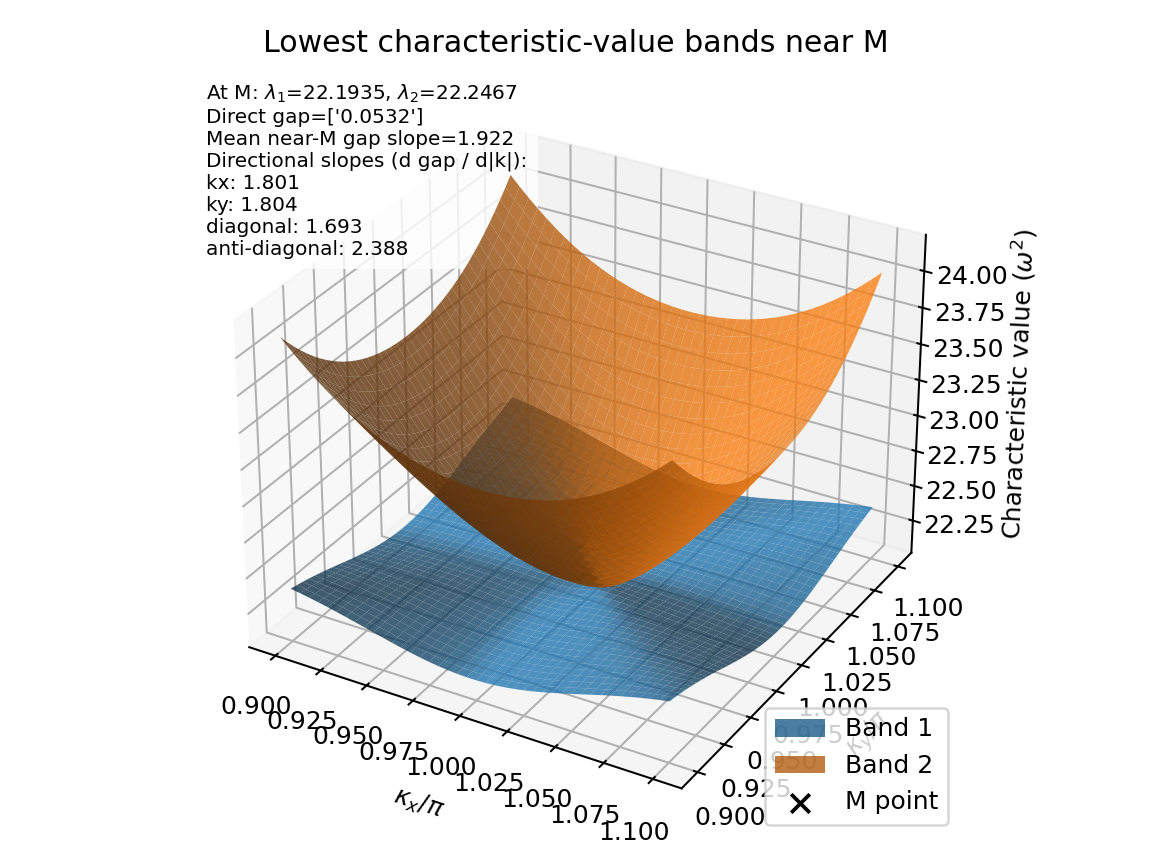
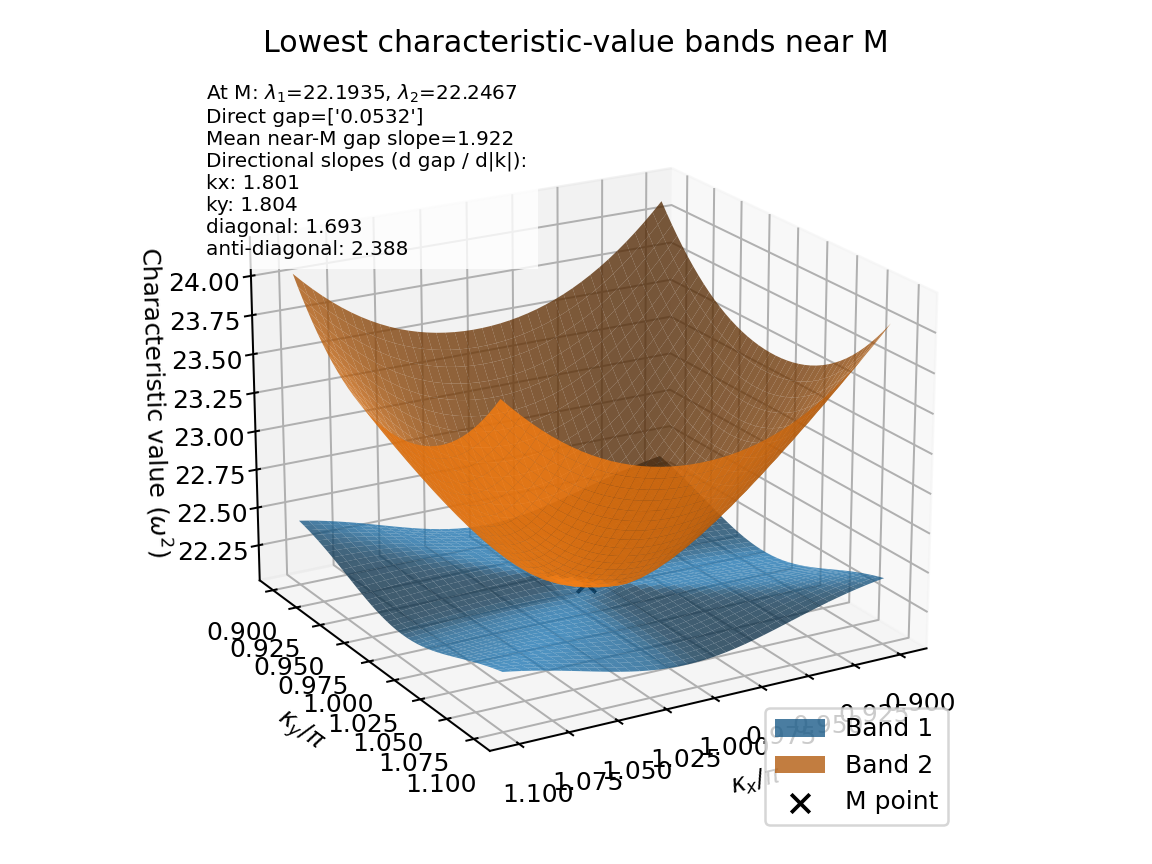
refined surface plots

Changed region(s): [[0.125, 0.1875, 0.9062, 0.9688]]

diff --git a/Translated Code/matlab_translation/main.py b/Translated Code/matlab_translation/main.py
@@ -412,10 +412,12 @@ def plot_frequency_surfaces(omega, kappa_x, kappa_y, lat_c=1.0):
             kappa_x / np.pi,
             kappa_y / np.pi,
             omega[:, :, band],
-            alpha=0.75,
-            linewidth=0,
+            alpha=0.5,
+            linewidth=0.3,
+            label=f"Band {band + 1}"
         )
     
+    MIN = np.min(omega)
     MAX = np.max(omega)
     T = np.array([0.0, 0.0])
     X = np.array([np.pi/lat_c, 0.0])
@@ -424,31 +426,31 @@ def plot_frequency_surfaces(omega, kappa_x, kappa_y, lat_c=1.0):
     ax.scatter(
         2*[T[0] / np.pi],
         2*[T[1] / np.pi],
-        [0,MAX],
+        [0,1.1*MAX],
         color="black",
         marker=r"$\Gamma$",
         s=55,
-        label=r"$\Gamma$",
+        # label=r"$\Gamma$",
     )
     ax.stem([X[0] / np.pi],[X[1] / np.pi],[MAX])
     ax.scatter(
         2*[X[0] / np.pi],
         2*[X[1] / np.pi],
-        [0,MAX],
+        [0,1.1*MAX],
         color="black",
         marker=r"$X$",
         s=55,
-        label=r"X",
+        # label=r"X",
     )
     ax.stem([M[0] / np.pi],[M[1] / np.pi],[MAX])
     ax.scatter(
         2*[M[0] / np.pi],
         2*[M[1] / np.pi],
-        [0,MAX],
+        [0,1.1*MAX],
         color="black",
         marker=r"$M$",
         s=55,
-        label=r"M",
+        # label=r"M",
     )
     
     ax.set_xlim([kappa_x[0].min() / np.pi, kappa_x[0].max() / np.pi])
@@ -457,24 +459,9 @@ def plot_frequency_surfaces(omega, kappa_x, kappa_y, lat_c=1.0):
     ax.set_ylabel(r"$\kappa_y/\pi$")
     ax.set_zlabel("Frequency")
     ax.set_title("Square-lattice bands near the Gamma point")
-    fig.tight_layout()
-    return fig, ax
-
-
-    ax.set_ylim([kappa_y.min() / np.pi, kappa_y.max() / np.pi])
-    ax.set_xlabel(r"$\kappa_x/\pi$")
-    ax.set_ylabel(r"$\kappa_y/\pi$")
-    ax.set_zlabel("Frequency")
-    ax.set_title("Square-lattice bands near the Gamma point")
-    fig.tight_layout()
-    return fig, ax
-
-
-    ax.set_ylim([kappa_y.min() / np.pi, kappa_y.max() / np.pi])
-    ax.set_xlabel(r"$\kappa_x/\pi$")
-    ax.set_ylabel(r"$\kappa_y/\pi$")
-    ax.set_zlabel("Frequency")
-    ax.set_title("Square-lattice bands near the Gamma point")
+    ax.legend()
+    ax.view_init(elev=20, azim=60)
+    
     fig.tight_layout()
     return fig, ax
 
@@ -533,6 +520,8 @@ def _plot_lattice_point_bands(
     ax.set_zlabel(r"Characteristic value ($\omega^2$)")
     ax.set_title(f"Lowest characteristic-value bands near {point_label}")
     ax.legend(loc="lower right")
+    ax.view_init(elev=20, azim=60)
+    
     fig.tight_layout()
     return fig, ax
 
@@ -605,18 +594,18 @@ def main():
     lat_c = 1.0
     mesh_size = 0.02
     
-    # # Compute touching characteristic values at M for several PEC inclusion radii and compare to analyic estimate.
-    # radii = [0.25, 0.1, 0.01]
-    # M = np.array([np.pi / lat_c, np.pi / lat_c])
-    # C_0 = 8* (np.pi**3)/(lat_c**3)
-    # for eps in radii:
-    #     estimate = 2*np.pi**2+C_0*(eps**2)
-    #     touching = calc_m_point_lowest_touching(lat_c=lat_c, PEC_radius=eps)
-    #     avg = np.mean(touching)
-    #     print(f"Radius = {eps:.2f}   Touch @ M: {touching[0]:.6f}, {touching[1]:.6f}   Averaged: {avg:.6f}   Error Gap: {touching[1] - touching[0]:.6f}")
-    #     # print(f"                Averaged:   {avg:.6f}")
-    #     print(f"                Estimate:  {estimate:.6f}")
-    #     print(f"                Diffs:     {touching[0]-estimate:.6f}, {touching[1]-estimate:.6f}\n")
+    # Compute touching characteristic values at M for several PEC inclusion radii and compare to analyic estimate.
+    radii = [0.25, 0.1, 0.01]
+    M = np.array([np.pi / lat_c, np.pi / lat_c])
+    C_0 = 8* (np.pi**3)/(lat_c**3)
+    for eps in radii:
+        estimate = 2*np.pi**2+C_0*(eps**2)
+        touching = calc_m_point_lowest_touching(lat_c=lat_c, PEC_radius=eps)
+        avg = np.mean(touching)
+        print(f"Radius = {eps:.2f}   Touch @ M: {touching[0]:.6f}, {touching[1]:.6f}   Averaged: {avg:.6f}   Error Gap: {touching[1] - touching[0]:.6f}")
+        # print(f"                Averaged:   {avg:.6f}")
+        print(f"                Estimate:  {estimate:.6f}")
+        print(f"                Diffs:     {touching[0]-estimate:.6f}, {touching[1]-estimate:.6f}\n")
     
     # exit()
     
@@ -632,7 +621,7 @@ def main():
     surface_fig.savefig(output_dir / "surface_plot_snapshot.png", dpi=180)
     plt.close(surface_fig)
 
-    exit()
+    # exit()
 
     # Band path: 100 samples on each of the path segments,
     # with the lowest 7 bands computed at every Bloch vector.
